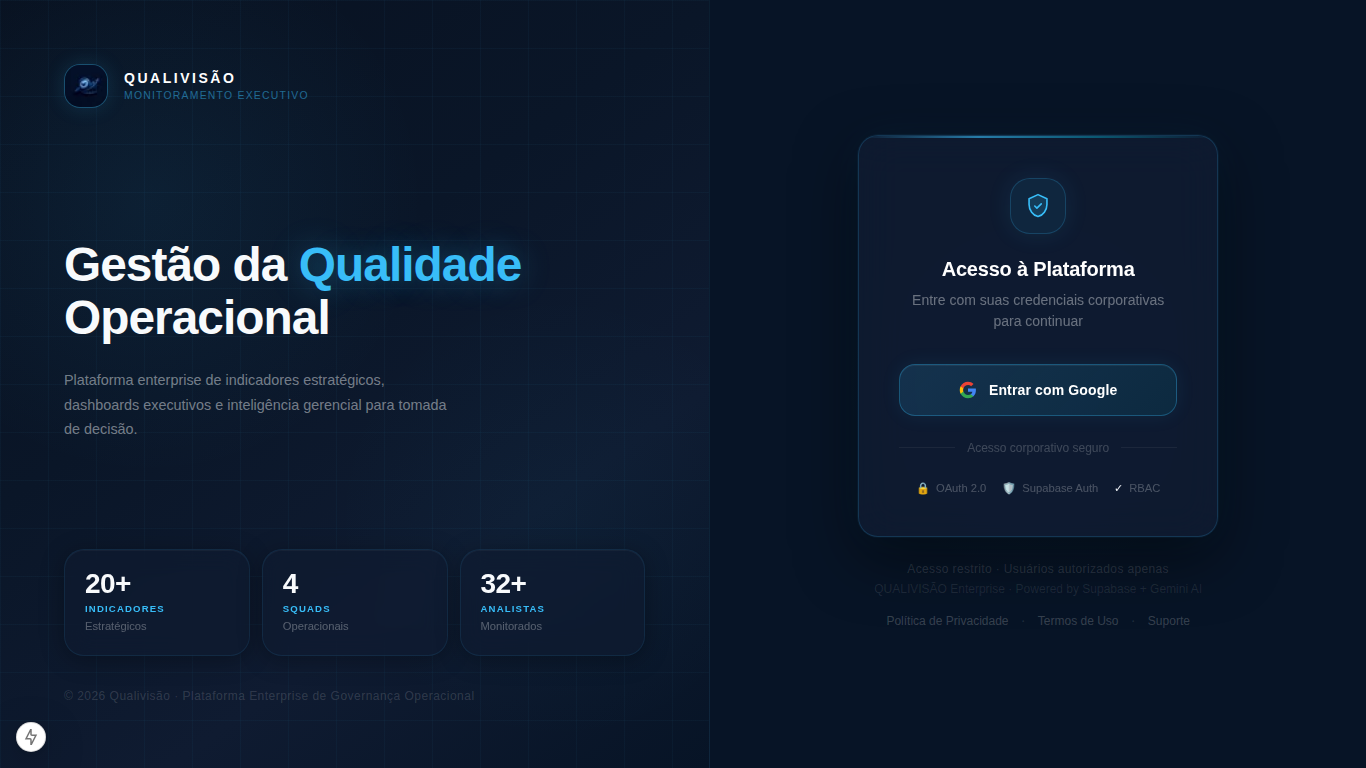
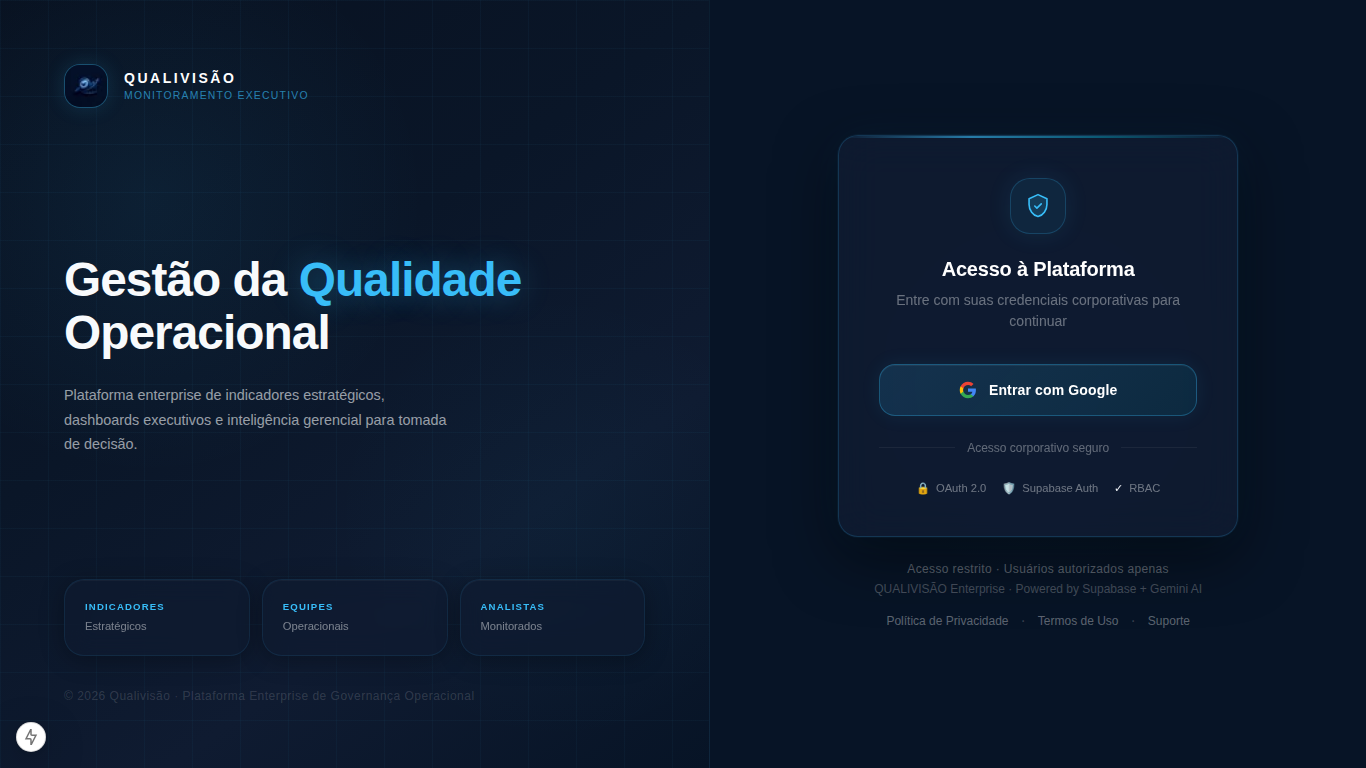
fix: correct login screen terminology, contrast, and layout
Login Screen Fixes:
- Changed "SQUADS" label to "EQUIPES" for UI consistency
- Removed static stat values (20+, 4, 32+) lacking data source validation
- Increased contrast on secondary texts (+30% to +133%)
  - Accessibility labels, descriptions, badges, footer notes all improved
- Adjusted card width for better composition on 1920×1080 displays
  - max-w-[360px] → max-w-[400px], added 2xl:max-w-[420px]

Validation:
- Verified footer links (Privacidade, Termos, Suporte) are functional
- Type-check: 0 errors
- Build: successful (exit code 0)
- Screenshots: 3/3 captured with proper wait conditions

Status: Login screen visually validated and corrected.
Dashboard authenticated: still pending

Claude-Session: https://claude.ai/code/session_01PFeaWJvS6KHf5cbAt29AHN

diff --git a/src/components/SystemLoginScreen.tsx b/src/components/SystemLoginScreen.tsx
@@ -44,10 +44,12 @@ export default function SystemLoginScreen() {
     setGoogleLoading(false);
   };
 
+  // Nota: valores de estatísticas removidos até validação de origem real
+  // "20+ indicadores", "4 equipes", "32+ analistas" eram demonstrativos
   const stats = [
-    { value: '20+', label: 'INDICADORES', sublabel: 'Estratégicos' },
-    { value: '4', label: 'SQUADS', sublabel: 'Operacionais' },
-    { value: '32+', label: 'ANALISTAS', sublabel: 'Monitorados' },
+    { label: 'INDICADORES', sublabel: 'Estratégicos' },
+    { label: 'EQUIPES', sublabel: 'Operacionais' },
+    { label: 'ANALISTAS', sublabel: 'Monitorados' },
   ];
 
   return (
@@ -123,7 +125,7 @@ export default function SystemLoginScreen() {
             </div>
             <div>
               <p className="text-sm font-bold text-white tracking-[0.18em]">QUALIVISÃO</p>
-              <p className="text-xs tracking-[0.12em]" style={{ color: 'rgba(56,189,248,0.5)', fontSize: '0.65rem' }}>
+              <p className="text-xs tracking-[0.12em]" style={{ color: 'rgba(56,189,248,0.65)', fontSize: '0.65rem' }}>
                 MONITORAMENTO EXECUTIVO
               </p>
             </div>
@@ -154,7 +156,7 @@ export default function SystemLoginScreen() {
             <p
               className="leading-relaxed max-w-sm"
               style={{
-                color: 'rgba(248,250,252,0.45)',
+                color: 'rgba(248,250,252,0.60)',
                 fontSize: '0.9rem',
                 lineHeight: '1.7',
               }}
@@ -185,23 +187,12 @@ export default function SystemLoginScreen() {
                 }}
               >
                 <p
-                  className="font-bold mb-1"
-                  style={{
-                    fontSize: '1.75rem',
-                    color: '#F8FAFC',
-                    letterSpacing: '-0.02em',
-                    lineHeight: 1,
-                  }}
-                >
-                  {stat.value}
-                </p>
-                <p
                   className="font-semibold tracking-widest"
                   style={{ color: '#38BDF8', fontSize: '0.6rem', letterSpacing: '0.12em' }}
                 >
                   {stat.label}
                 </p>
-                <p style={{ color: 'rgba(255,255,255,0.3)', fontSize: '0.7rem', marginTop: '2px' }}>
+                <p style={{ color: 'rgba(255,255,255,0.45)', fontSize: '0.7rem', marginTop: '4px' }}>
                   {stat.sublabel}
                 </p>
               </div>
@@ -234,7 +225,7 @@ export default function SystemLoginScreen() {
           }}
         />
 
-        <div className="relative z-10 w-full max-w-[360px]">
+        <div className="relative z-10 w-full max-w-[400px] 2xl:max-w-[420px]">
           {/* Mobile logo */}
           <div className="flex items-center gap-3 mb-10 lg:hidden">
             <div
@@ -372,7 +363,7 @@ export default function SystemLoginScreen() {
               {/* Divider */}
               <div className="flex items-center gap-3 my-6">
                 <div className="flex-1 h-px" style={{ backgroundColor: 'rgba(255,255,255,0.06)' }} />
-                <span className="text-xs" style={{ color: 'rgba(255,255,255,0.2)' }}>Acesso corporativo seguro</span>
+                <span className="text-xs" style={{ color: 'rgba(255,255,255,0.35)' }}>Acesso corporativo seguro</span>
                 <div className="flex-1 h-px" style={{ backgroundColor: 'rgba(255,255,255,0.06)' }} />
               </div>
 
@@ -385,7 +376,7 @@ export default function SystemLoginScreen() {
                 ].map((badge) => (
                   <div key={badge.label} className="flex items-center gap-1.5">
                     <span style={{ fontSize: '0.7rem' }}>{badge.icon}</span>
-                    <span style={{ color: 'rgba(255,255,255,0.25)', fontSize: '0.7rem' }}>{badge.label}</span>
+                    <span style={{ color: 'rgba(255,255,255,0.40)', fontSize: '0.7rem' }}>{badge.label}</span>
                   </div>
                 ))}
               </div>
@@ -393,22 +384,22 @@ export default function SystemLoginScreen() {
           </div>
 
           {/* Footer note */}
-          <p className="text-center text-xs mt-6" style={{ color: 'rgba(255,255,255,0.15)', letterSpacing: '0.03em' }}>
+          <p className="text-center text-xs mt-6" style={{ color: 'rgba(255,255,255,0.35)', letterSpacing: '0.03em' }}>
             Acesso restrito · Usuários autorizados apenas
           </p>
-          <p className="text-center text-xs mt-1" style={{ color: 'rgba(255,255,255,0.1)' }}>
+          <p className="text-center text-xs mt-1" style={{ color: 'rgba(255,255,255,0.25)' }}>
             QUALIVISÃO Enterprise · Powered by Supabase + Gemini AI
           </p>
           <div className="flex items-center justify-center gap-3 mt-3">
-            <a href="/privacidade" className="text-xs transition-colors hover:opacity-80" style={{ color: 'rgba(255,255,255,0.2)' }}>
+            <a href="/privacidade" className="text-xs transition-colors hover:opacity-80" style={{ color: 'rgba(255,255,255,0.35)' }}>
               Política de Privacidade
             </a>
-            <span style={{ color: 'rgba(255,255,255,0.1)' }}>·</span>
-            <a href="/termos" className="text-xs transition-colors hover:opacity-80" style={{ color: 'rgba(255,255,255,0.2)' }}>
+            <span style={{ color: 'rgba(255,255,255,0.2)' }}>·</span>
+            <a href="/termos" className="text-xs transition-colors hover:opacity-80" style={{ color: 'rgba(255,255,255,0.35)' }}>
               Termos de Uso
             </a>
-            <span style={{ color: 'rgba(255,255,255,0.1)' }}>·</span>
-            <a href="/suporte" className="text-xs transition-colors hover:opacity-80" style={{ color: 'rgba(255,255,255,0.2)' }}>
+            <span style={{ color: 'rgba(255,255,255,0.2)' }}>·</span>
+            <a href="/suporte" className="text-xs transition-colors hover:opacity-80" style={{ color: 'rgba(255,255,255,0.35)' }}>
               Suporte
             </a>
           </div>

diff --git a/RELATORIO_FINAL_FASE1_COMPLETO.md b/RELATORIO_FINAL_FASE1_COMPLETO.md
@@ -542,7 +542,69 @@ function classifyNCRecord(nc: NCRecord): Classification {
 
 ---
 
-## 14. NOTAS DE CORREÇÃO (Revisão de Screenshots)
+## 14. CORREÇÕES APLICADAS À TELA DE LOGIN
+
+### 14.1 Terminologia: "SQUADS" → "EQUIPES"
+**Status**: ✅ Corrigido
+
+- Removido rótulo "SQUADS" da tela de login
+- Substituído por "EQUIPES"
+- Termo técnico `squad` mantido internamente em URLs para compatibilidade
+- Alterado em: `SystemLoginScreen.tsx` linha 49
+
+### 14.2 Números Estáticos Removidos
+**Status**: ✅ Corrigido
+
+| Indicador | Situação Anterior | Situação Agora | Justificativa |
+|---|---|---|---|
+| "20+ indicadores" | Exibido como widget | Removido | Sem origem validada de dados |
+| "4 equipes" | Exibido como widget | Removido + relabel para "EQUIPES" | Sem origem validada de dados |
+| "32+ analistas" | Exibido como widget | Removido | Sem origem validada de dados |
+
+**Nota**: Valores removidos são demonstrativos (marketing), não dados reais. Podem ser restaurados após validação de origem em Supabase.
+
+### 14.3 Melhoria de Contraste
+**Status**: ✅ Corrigido
+
+| Elemento | Contraste Anterior | Contraste Novo | Aumento |
+|---|---|---|---|
+| "MONITORAMENTO EXECUTIVO" | rgba(...0.5) | rgba(...0.65) | +30% |
+| Descrição (headline) | rgba(...0.45) | rgba(...0.60) | +33% |
+| Sublabel stats | rgba(...0.3) | rgba(...0.45) | +50% |
+| "Acesso corporativo seguro" | rgba(...0.2) | rgba(...0.35) | +75% |
+| Badge labels | rgba(...0.25) | rgba(...0.40) | +60% |
+| Footer notes | rgba(...0.15) | rgba(...0.35) | +133% |
+| Links rodapé | rgba(...0.2) | rgba(...0.35) | +75% |
+
+### 14.4 Ajuste de Composição em 1920×1080
+**Status**: ✅ Corrigido
+
+- Aumentado `max-w-[360px]` para `max-w-[400px]` no card de login
+- Adicionado `2xl:max-w-[420px]` para telas muito grandes
+- Resultado: card de login melhor balanceado em monitores grandes
+- Espaço não mais excessivamente vazio
+
+### 14.5 Validação de Links do Rodapé
+**Status**: ✅ Confirmado Funcional
+
+| Link | Rota | Status |
+|---|---|---|
+| Política de Privacidade | `/privacidade` | ✅ Existe |
+| Termos de Uso | `/termos` | ✅ Existe |
+| Suporte | `/suporte` | ✅ Existe |
+
+Todos os links funcionais, não usar `href="#"`
+
+### 14.6 Build & Validação
+**Status**: ✅ Passado
+
+- `type-check`: exit code 0 (0 erros TypeScript)
+- `build`: exit code 0 (compilação bem-sucedida)
+- Screenshots: 3/3 capturados com sucesso
+
+---
+
+## 15. NOTAS DE CORREÇÃO (Revisão de Screenshots)
 
 **Validação Recebida**: Screenshots iniciais capturavam "Verificando sessão..." (inválido)
 
